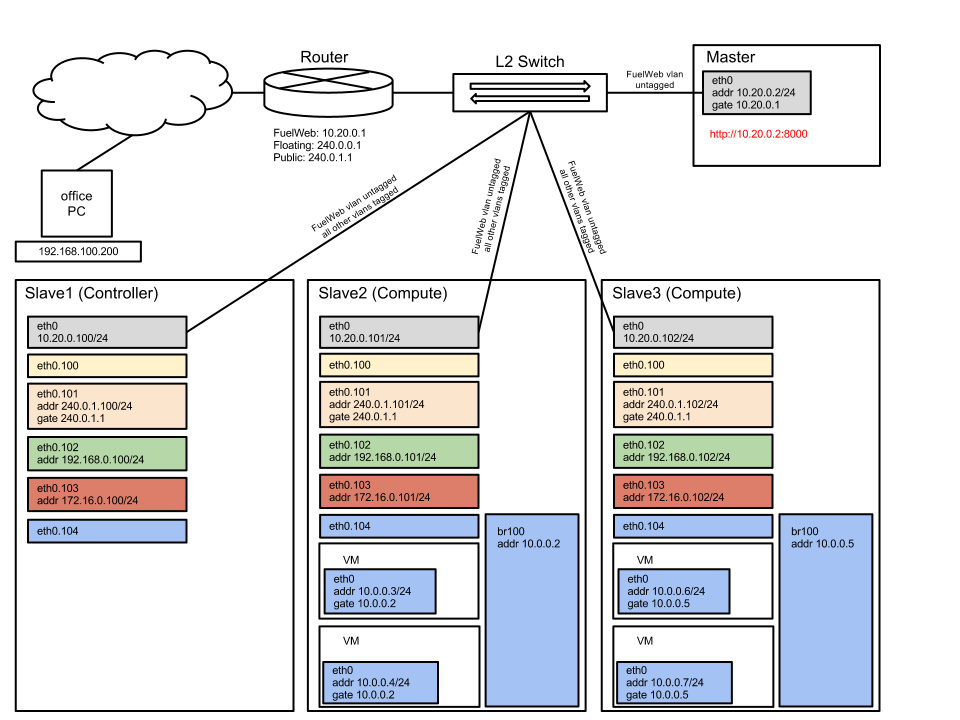
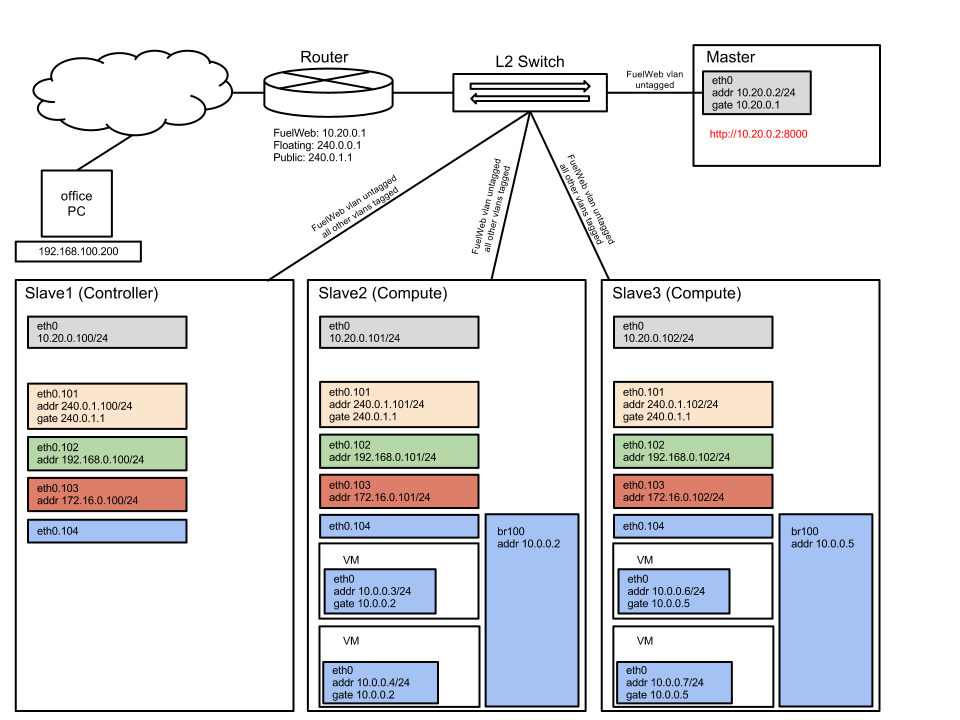
[docs] Add floating issue description.

diff --git a/docs/user/networks.rst b/docs/user/networks.rst
@@ -195,25 +195,25 @@ Making Configuration
 Scheme
 ^^^^^^
 
-Once you figure out whe network scheme for your future cloud, you need to configure your equipment according to this scheme. Note that the IP addresses in your case will differ from those shown in the diagrams.
+Once you figure out the network scheme for your future cloud, you need to configure your equipment according to this scheme. Note that the IP addresses in your case will differ from those shown in the diagrams.
 
 .. image:: _static/flat.png
 
 By default we use several predefined networks:
 
-* **FuelWeb** network is used for internal FuelWeb communications only (untagged on the scheme).
-* **Floating** network is used to get access to virtual machines from outside openstack cluster (vlan 100 on the scheme)
-* **Public** network used to get access from virtual machines to outside openstack cluster (vlan 101 on the scheme)
-* **Management** network is used for internal openstack communications (vlan 102 on the scheme)
-* **Storage** network is used for storage traffic (vlan 103 on the scheme)
-* One (for flat mode) or more (for vlan mode) virtual machine network(s). (vlan 104 on the scheme)
+* **FuelWeb** network is used for internal FuelWeb communications only (untagged on the scheme);
+* **Public** network used to get access from virtual machines to outside OpenStack cluster (vlan 101 on the scheme);
+* **Floating** network is used to get access to virtual machines from outside OpenStack cluster (shared L2-interface with **Public** network, in this case it's vlan 101);
+* **Management** network is used for internal OpenStack communications (vlan 102 on the scheme);
+* **Storage** network is used for storage traffic (vlan 103 on the scheme);
+* One (for flat mode) or more (for vlan mode) virtual machine network(s). (vlan 104 on the scheme).
 
 Switch
 ^^^^^^
 
 Now is the point where you need to configure L2 switch so that all nodes are connected to switch
 ports where "**FuelWeb**" vlan frames untagged (without vlan tags) and all other frames tagged (with vlan
-tags). Vlans 100-104 must not be filtered on those ports. It is crucial to isolate all used vlans
+tags). Vlans 101-104 must not be filtered on those ports. It is crucial to isolate all used vlans
 from the rest of your network on L2 because in other case DHCP server on master node can send
 invalid DHCP offers to DHCP clients inside your network and vise versa slave nodes can get invalid
 DHCP offers from DHCP servers outside scheme. Once master node is installed and slave nodes are
@@ -223,14 +223,14 @@ validity of vlan configuration on L2 switch.
 Router
 ^^^^^^
 
-To make virtual machines able to get access to the outside of openstack cluster it is needed to configure
+To make virtual machines able to get access to the outside of OpenStack cluster it is needed to configure
 address 240.0.1.1 on the "**Public**" (vlan 101) router interface. Cluster nodes will use this address as
 default gateway. In turn, to get access from the outside of cluster to virtual machine via, for example,
-ssh you need to use "**Floating**" IP address which could be assigned to given virtual machine via openstack
-dashboard. You also need to configure corresponding IP address 240.0.0.1 on the "**Floating**" (vlan 100)
+ssh you need to use "**Floating**" IP address which could be assigned to given virtual machine via OpenStack
+dashboard. You also need to configure corresponding IP address 240.0.0.1 on the "**Floating**" (vlan 101)
 router interface. Besides, to get access from the outside to http://10.20.0.2:8000 you also need to
 configure gateway address 10.20.0.1 on "**FuelWeb**" vlan interface (untagged on the scheme). Private
-openstack networks (vlans 102, 103, 104) should not be configured on router as they used completely
+OpenStack networks (vlans 102, 103, 104) should not be configured on router as they used completely
 inside cluster.
 
 
